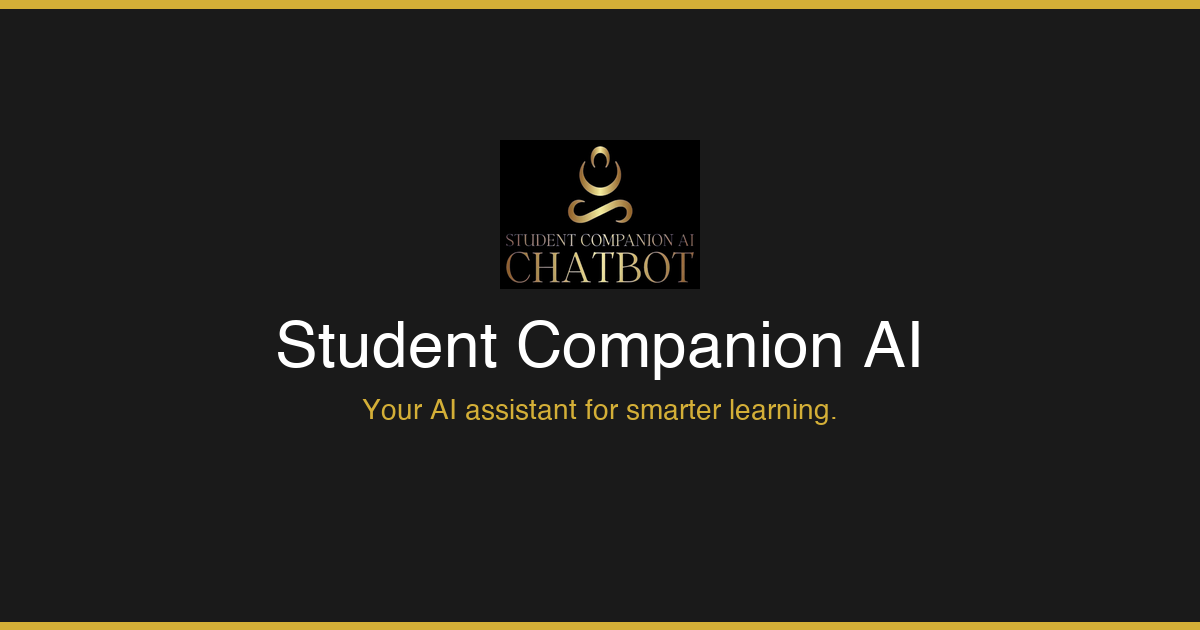
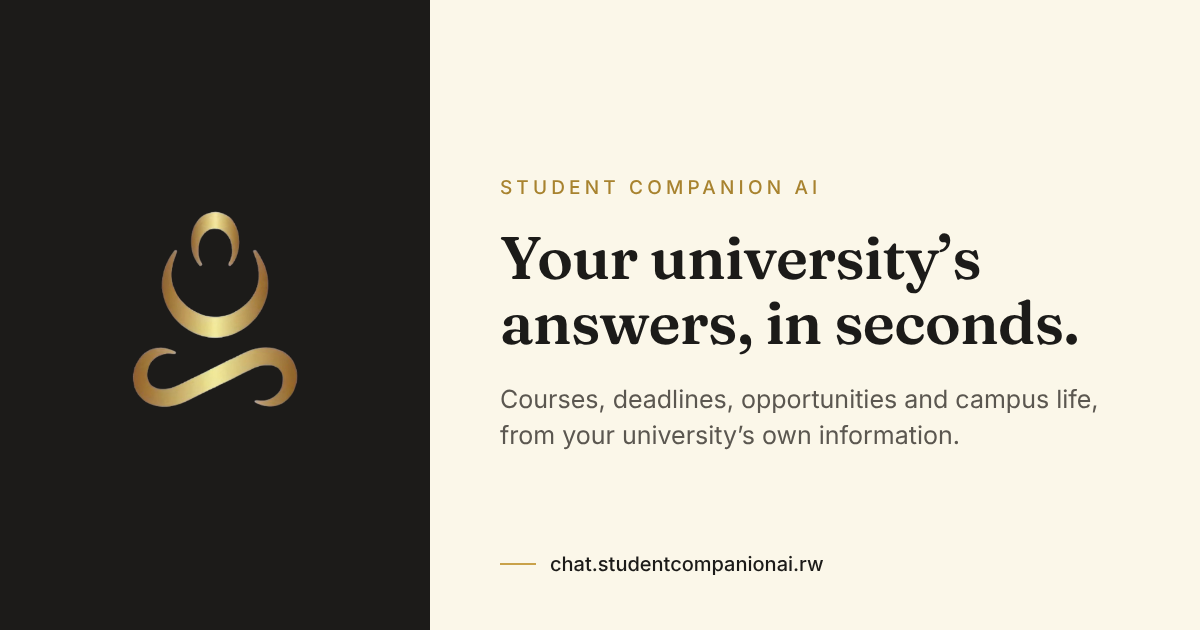
Link preview: cleaner image, title and description
The preview shown when the chat link is shared (WhatsApp, Slack, LinkedIn,
email) used the old black "CHATBOT" logo box and a generic "AI assistant
for smarter learning" line. New 1200x630 image: the gold mark on the
dark panel, the brand cream, "Your university's answers, in seconds." in
Fraunces (the site's heading font) and the address. Title and description
now say what it does: answers about courses, deadlines, opportunities and
campus life from the university's own information. The image URL gains
?v=2 so platforms fetch the new one instead of a cached copy; alt text
added.

Claude-Session: https://claude.ai/code/session_01Nv8JpQAgv1zXvrdmvJEuMt

diff --git a/index.html b/index.html
@@ -8,7 +8,7 @@
     <meta name="color-scheme" content="light" />
 
     <title>Student Companion AI</title>
-    <meta name="description" content="Your AI assistant for smarter learning — academics, campus life, and beyond." />
+    <meta name="description" content="Ask about courses, deadlines, opportunities and campus life, and get answers from your university’s own information in seconds." />
 
     <!-- PWA -->
     <link rel="manifest" href="/manifest.webmanifest" />
@@ -24,18 +24,19 @@
     <!-- Open Graph -->
     <meta property="og:type" content="website" />
     <meta property="og:site_name" content="Student Companion AI" />
-    <meta property="og:title" content="Student Companion AI" />
-    <meta property="og:description" content="Your AI assistant for smarter learning — academics, campus life, and beyond." />
-    <meta property="og:image" content="https://chat.studentcompanionai.rw/og-image.png" />
+    <meta property="og:title" content="Student Companion AI: your university’s answers, in seconds" />
+    <meta property="og:description" content="Ask about courses, deadlines, opportunities and campus life, and get answers from your university’s own information in seconds." />
+    <meta property="og:image" content="https://chat.studentcompanionai.rw/og-image.png?v=2" />
     <meta property="og:image:width" content="1200" />
     <meta property="og:image:height" content="630" />
+    <meta property="og:image:alt" content="Student Companion AI: your university’s answers, in seconds. chat.studentcompanionai.rw" />
     <meta property="og:url" content="https://chat.studentcompanionai.rw" />
 
     <!-- Twitter card -->
     <meta name="twitter:card" content="summary_large_image" />
-    <meta name="twitter:title" content="Student Companion AI" />
-    <meta name="twitter:description" content="Your AI assistant for smarter learning — academics, campus life, and beyond." />
-    <meta name="twitter:image" content="https://chat.studentcompanionai.rw/og-image.png" />
+    <meta name="twitter:title" content="Student Companion AI: your university’s answers, in seconds" />
+    <meta name="twitter:description" content="Ask about courses, deadlines, opportunities and campus life, and get answers from your university’s own information in seconds." />
+    <meta name="twitter:image" content="https://chat.studentcompanionai.rw/og-image.png?v=2" />
 
     <link rel="preconnect" href="https://fonts.googleapis.com" />
     <link rel="preconnect" href="https://fonts.gstatic.com" crossorigin />
